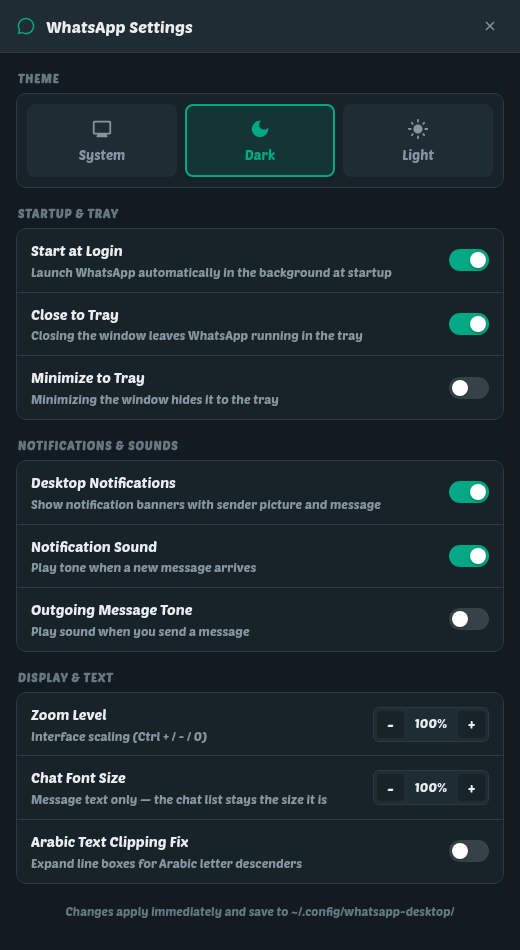
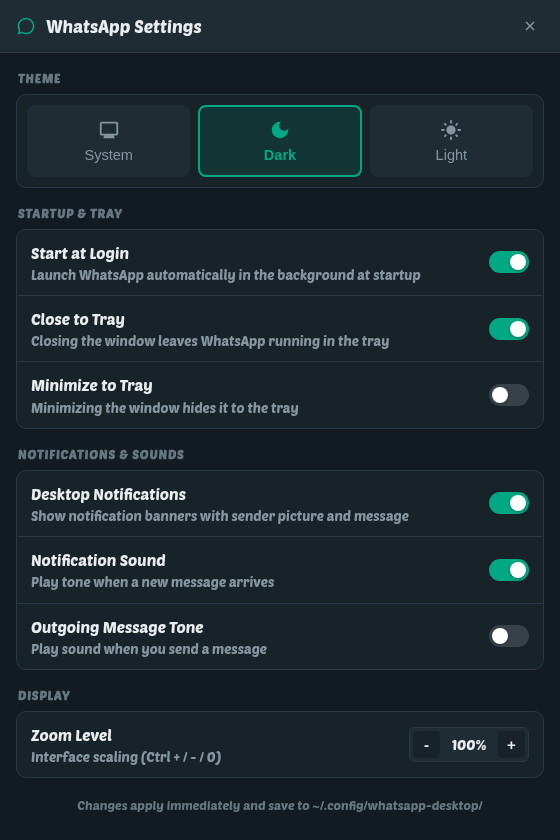
screenshots: three windows, each grown to what it has to say
The client has three windows of its own now and the tool photographed two, so
About had no picture anywhere and the settings one on the site was from before
the fonts left it. It takes all three, and `make screenshots` puts them in both
places the repository shows them -- screenshots/ for the README, docs/assets for
the site -- because a picture updated in one and not the other is how the site
came to be showing a window that no longer exists.

Two things had to change beyond adding a third entry.

Each window is now sized to its own content before the shutter, rather than
photographed at the size the client opens it. Opened at 560x720 the fonts window
is a scroller, and the picture was the top of it with the Arabic section cut in
half; the About window is the other way round and sat above 60px of empty panel.
`scrollHeight` cannot answer this on its own -- the scroller is `flex: 1`, so
one with room to spare reports the room and not the content -- so what is
measured is the bottom of the last thing inside it. Settings came out 840 tall,
fonts 960, About 554.

And the fonts window is photographed with both scripts CHOSEN. On the defaults
every control under the two switches is dimmed and the two preview lines are the
same font, which is a picture of the feature turned off. The families are picked
from what the machine really has, so the pickers hold a real catalogue, the two
previews are really drawn in the two faces named, and the row that reads "Noto
[…]

diff --git a/tools/capture-windows.js b/tools/capture-windows.js
@@ -1,0 +1,168 @@
+/*
+ * The pictures of the client's own windows, for the README and the site.
+ *
+ * Each window is opened at the size the client itself opens it at, with the
+ * preload it really uses and a main process that answers the same IPC -- so the
+ * picture is the window, not a mock-up of it. What is faked is only the state
+ * behind it: a theme, a set of switches, and an update check that has already
+ * come back, because a capture must not depend on a session or on the network.
+ */
+
+const { app, BrowserWindow, ipcMain } = require('electron');
+const path = require('path');
+const fs = require('fs');
+/* The same family the client would draw these windows in, so the picture is the
+   window as this machine draws it and not a rendering in Chromium's default. */
+const desktop = require('../src/desktop.js');
+/* The real catalogue, so the picture shows the font picker with this machine's
+   own families in it rather than an empty dropdown. */
+const fonts = require('../src/fonts.js');
+const manifest = require('../package.json');
+
+app.commandLine.appendSwitch('no-sandbox');
+app.commandLine.appendSwitch('disable-gpu');
+app.commandLine.appendSwitch('disable-dev-shm-usage');
+
+/* The fonts window is photographed with both scripts *chosen*, not inheriting.
+   Left on the defaults every control below the switch is dimmed and the two
+   previews are the same font, which is a picture of the feature turned off. The
+   families are picked from what this machine actually has, so the picker beside
+   them is the real catalogue and the two preview lines really are drawn in the
+   two faces named. */
+const pick = (list, wanted) => {
+  const names = list.map(font => font.name);
+  return wanted.find(name => names.includes(name)) || names[0] || '';
+};
+const installed = fonts.installed();
+const shownLatin = pick(installed.latin, ['Adwaita Sans', 'Cantarell', 'Inter', 'Noto Sans']);
+const shownArabic = pick(installed.arabic, ['Noto Naskh Arabic', 'Noto Sans Arabic', 'Vazirmatn']);
+
+ipcMain.handle('settings:get', () => ({
+  theme: 'dark',
+  autostart: true,
+  closeToTray: true,
+  minimizeToTray: false,
+  notifyEnabled: true,
+  notifySound: true,
+  outgoingSound: false,
+  zoom: 1.0,
+  fontSize: 16,
+  font: desktop.interfaceFont(),
+  fonts: {
+    desktop: desktop.interfaceFont(),
+    systemArabic: fonts.defaultFor('ar'),
+    latin: { inherit: false, family: shownLatin, size: 100, bold: false, italic: false },
+    arabic: { inherit: false, family: shownArabic, size: 105, bold: false, italic: false },
+    available: installed,
+  },
+}));
+ipcMain.handle('settings:set-theme', () => true);
+ipcMain.handle('settings:set-autostart', () => true);
+ipcMain.handle('settings:set', () => true);
+ipcMain.on('settings:close', () => {});
+
+/* About, with a check that has already been answered. The window asks the
+   moment it loads, and a picture taken while it says "Checking…" is a picture
+   of a spinner; so the answer is here from the start and `checkNow` is off.
+   "Up to date" is the state a reader should recognise -- the other one is a
+   version number that would be wrong the day after it was taken. */
+ipcMain.handle('about:get', () => ({
+  name: 'WhatsApp',
+  version: manifest.version,
+  icon: '../data/icons/128/apps/io.github.shehawey.whatsapp-desktop.png',
+  license: manifest.license,
+  author: String(manifest.author || '').replace(/\s*<[^>]*>/, ''),
+  electron: process.versions.electron,
+  chromium: process.versions.chrome,
+  node: process.versions.node,
+  theme: 'dark',
+  font: desktop.interfaceFont(),
+  update: { newer: false, current: manifest.version, latest: manifest.version },
+  checkNow: false,
+}));
+ipcMain.handle('about:check-update', () => ({
+  newer: false, current: manifest.version, latest: manifest.version,
+}));
+ipcMain.on('about:open', () => {});
+ipcMain.on('about:close', () => {});
+
+/* Every window the client can open, at the size it opens it at -- see
+   openSettings, openFonts and openAbout in src/main.js. The fonts left the
+   settings window on 2026-09-03 and About arrived beside them, so a single
+   picture is no longer the whole of what this client can be told. */
+const WINDOWS = [
+  { name: 'settings', file: 'settings.html', preload: 'settings-preload.js', width: 560, height: 660 },
+  { name: 'fonts',    file: 'fonts.html',    preload: 'settings-preload.js', width: 560, height: 720 },
+  { name: 'about',    file: 'about.html',    preload: 'about-preload.js',    width: 430, height: 610 },
+];
+
+const shoot = ({ name, file, preload, width, height }, ssDir) => new Promise(resolve => {
+  const win = new BrowserWindow({
+    width,
+    height,
+    /* Frameless, like the window the client opens: capturePage takes the web
+       contents, and a frame here would only shrink them. */
+    frame: false,
+    /* Shown, and not captured out of sight: a window that is never mapped is
+       never painted on Wayland, and capturePage then waits for a frame that
+       does not come. */
+    show: true,
+    webPreferences: {
+      preload: path.join(__dirname, '../src', preload),
+      contextIsolation: true,
+      nodeIntegration: false,
+      sandbox: false,
+    }
+  });
+
+  win.loadFile(path.join(__dirname, '../src', file));
+
+  win.webContents.on('did-finish-load', () => {
+    setTimeout(async () => {
+      try {
+        /* Grown -- or shrunk -- to exactly what it has to say, so the picture
+           is the whole window and not the top of a scroller with a switch cut
+           in half at the bottom, or a card floating over empty space.
+           `scrollHeight` alone cannot answer this: the scroller is `flex: 1`,
+           so a container with room to spare reports the room, not the content.
+           What is measured instead is the bottom of the last thing in it. */
+        const grow = await win.webContents.executeJavaScript(`(() => {
+          const box = document.querySelector('.container');
+          const last = box && box.lastElementChild;
+          if (!last) return 0;
+          const needed = last.getBoundingClientRect().bottom + box.scrollTop
+            - box.getBoundingClientRect().top
+            + parseFloat(getComputedStyle(box).paddingBottom);
+          return Math.ceil(needed - box.clientHeight);
+        })()`);
+        if (grow) {
+          const [w, h] = win.getContentSize();
+          win.setContentSize(w, Math.max(320, h + grow));
+          await new Promise(done => setTimeout(done, 400));
+        }
+        const image = await win.webContents.capturePage();
+        fs.writeFileSync(path.join(ssDir, name + '.png'), image.toPNG());
+        console.log('CAPTURED_OK %s', name);
+      } catch (e) {
+        console.error('Capture error:', e);
+      }
+      win.destroy();
+      resolve();
+    }, 1000);
+  });
+});
+
+/* Three windows, one after the other -- and Electron quits by itself the moment
+   the last one closes, which is exactly the gap between them. Held open here so
+   the later pictures are taken at all. */
+app.on('window-all-closed', () => {});
+
+app.whenReady().then(async () => {
+  const ssDir = path.join(__dirname, '../screenshots');
+  if (!fs.existsSync(ssDir)) fs.mkdirSync(ssDir, { recursive: true });
+
+  /* One at a time: two windows up together would be two pictures of whichever
+     of them the compositor decided to paint. */
+  for (const window of WINDOWS) await shoot(window, ssDir);
+  app.exit(0);
+});
